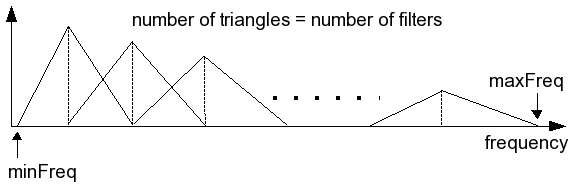
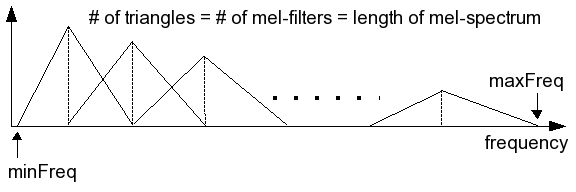
Updated melfilterbank image.
git-svn-id: svn://svn.code.sf.net/p/cmusphinx/code/trunk@2570 94700074-3cef-4d97-a70e-9c8c206c02f5

Changed region(s): [[0.1562, 0.0312, 0.9375, 0.1562]]

diff --git a/sphinx4/edu/cmu/sphinx/frontend/frequencywarp/MelFrequencyFilterBank.java b/sphinx4/edu/cmu/sphinx/frontend/frequencywarp/MelFrequencyFilterBank.java
@@ -36,12 +36,14 @@ import java.io.IOException;
  * <p>
  * which defaults to 40.
  * <p>
- * The output is an array of filtered values, each corresponding to the
- * result of filtering the input spectrum through an individual filter.
+ * The output is an array of filtered values, typically called mel-spectrum,
+ * each corresponding to the result of filtering the input spectrum
+ *  through an individual filter.
  * Therefore, the length of the output array is equal to the number
  * of filters created.
  * <p>
- * The filters in the filter bank are placed in the frequency axis so as to
+ * The triangular mel-filters in the filter bank are placed 
+ * in the frequency axis so as to
  * mimic the critical band, representing different perceptual effect
  * at different frequency bands. Pictorially, the filter bank looks like:
  * <p>
@@ -52,8 +54,10 @@ import java.io.IOException;
  * decreasing height and increasing width. The distance at the base
  * from the center to the left edge is different from the center to
  * the right edge. This is due to the mel-frequency scale,
- * which is a nonlinear scale that models the behavior of the 
- * human auditory system. The area under each triangle is equal to 1.
+ * which is a non-linear scale that models the non-linear human
+ * hearing behavior. As can be inferred from the figure, filtering with
+ * the mel scale emphasizes the lower frequencies.
+ * The area under each triangle is equal to 1.
  * <p>
  * The minimum frequency has a default value of 130Hz, while 
  * the maximum frequency has a default value of 6800Hz.
